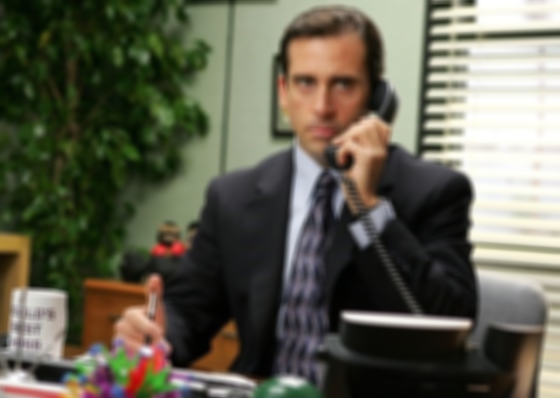
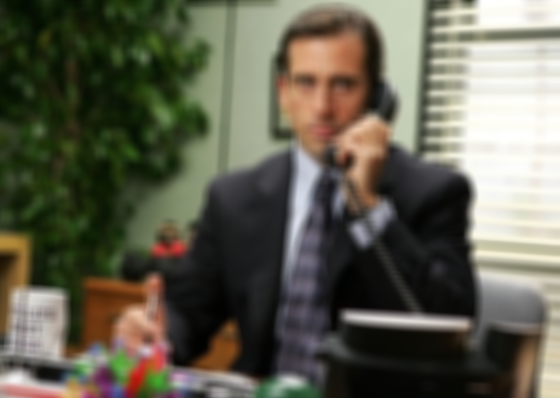
correction on blur function

diff --git a/editing.c b/editing.c
@@ -8,6 +8,8 @@
 void blur(int height, int width, int channels, RGB pixels[height][width], unsigned char *edited_output)
 {
 
+    int delta_val = 12;
+
     for (int i = 0; i < height; i++)
     {
         for (int j = 0; j < width; j++)
@@ -17,9 +19,9 @@ void blur(int height, int width, int channels, RGB pixels[height][width], unsign
             int sumB = 0;
             int count = 0;
 
-            for (int delta_i = -3; delta_i <= 3; delta_i++)
+            for (int delta_i = -delta_val; delta_i <= delta_val; delta_i++)
             {
-                for (int delta_j = -3; delta_j <= 3; delta_j++)
+                for (int delta_j = -delta_val; delta_j <= delta_val; delta_j++)
                 {
                     int new_i = i + delta_i;
                     int new_j = j + delta_j;
